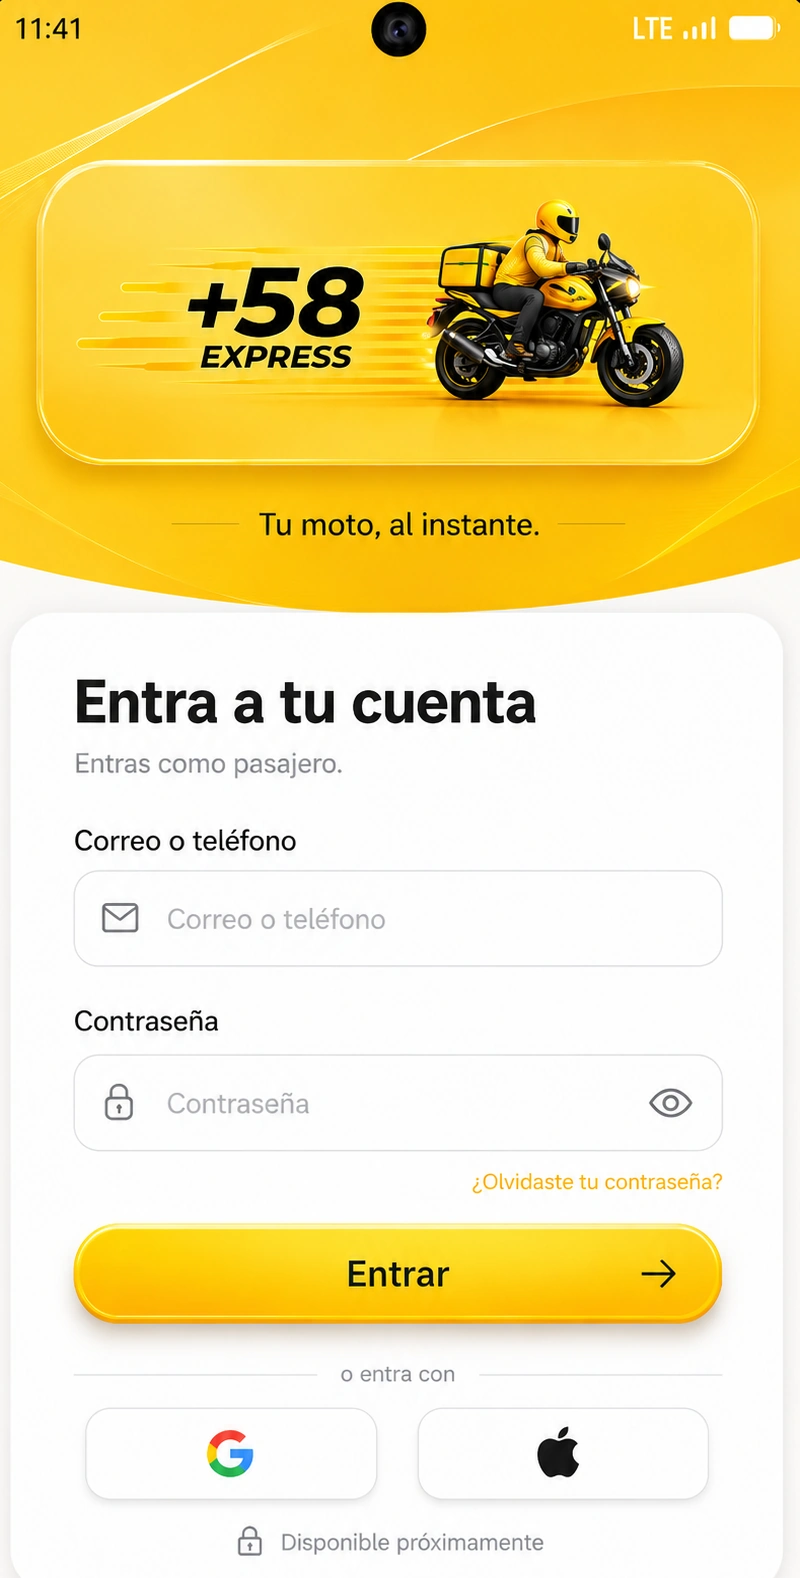
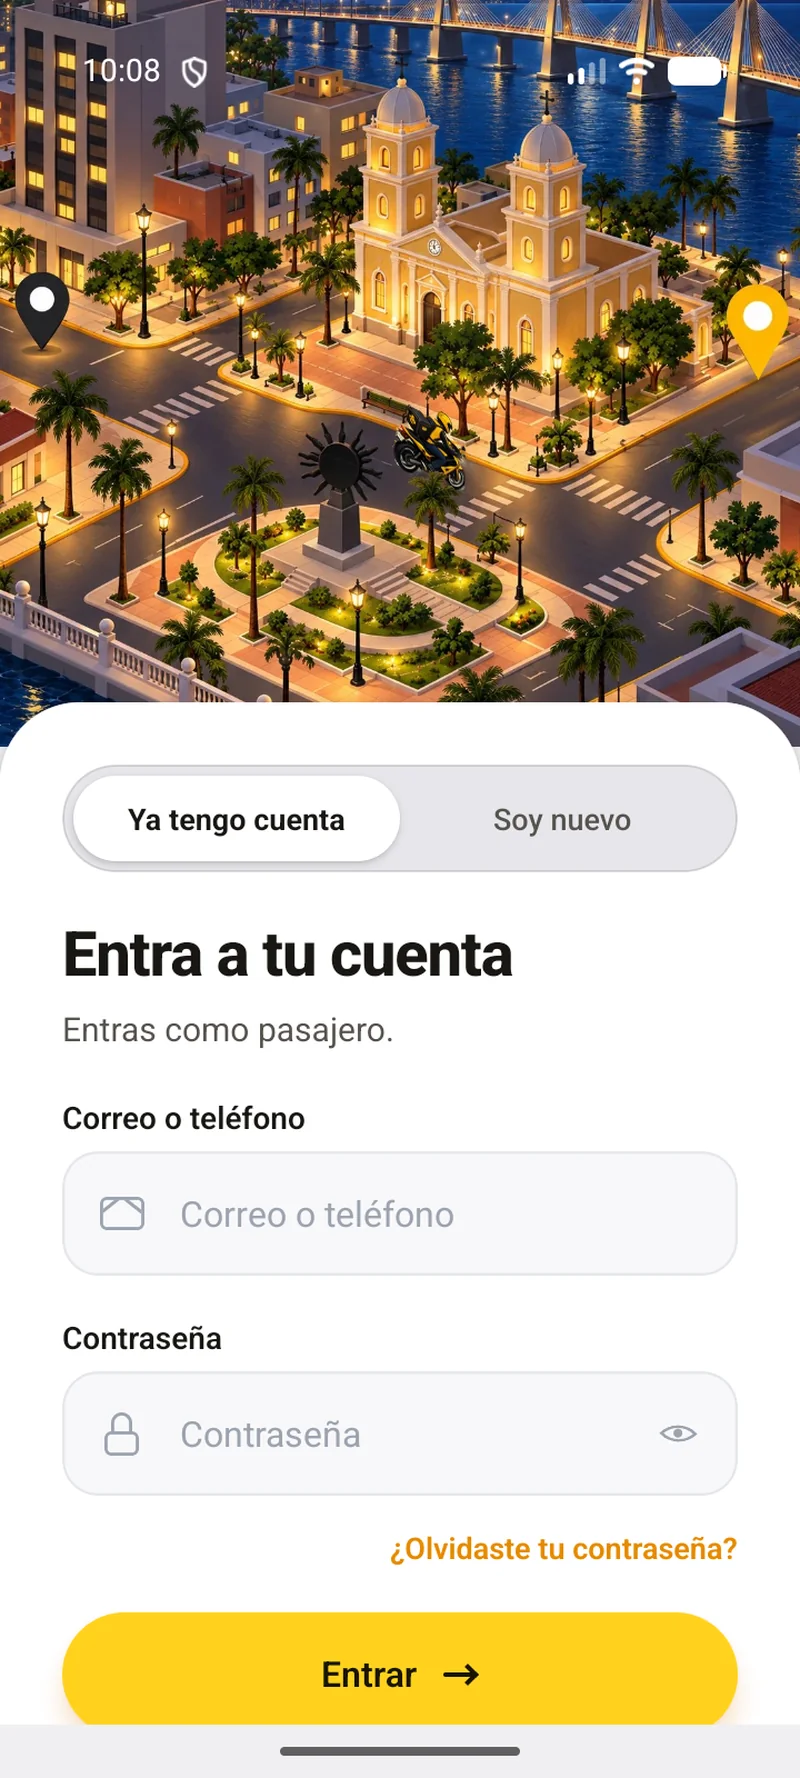
feat(web): pantallas reales de la app, primer viaje gratis y postulación
- Las pantallas del teléfono pasan a ser las de la app publicada: inicio
  (¿qué necesitas hoy?), la ruta con distancia y tiempo, y el acceso con
  el mapa de Maracaibo. Sin «demo», «LAB» ni nombres inventados.
- Imagen para compartir: el gráfico de Google Play (carro y moto).
- Promoción tras la portada: el primer viaje, totalmente gratis, solo para
  cuentas nuevas, con la condición escrita junto a la oferta.
- /conductores: la imagen de la postulación (en revisión y aprobada) y la
  postulación se hace desde la app, ya publicada.

diff --git a/web/app/conductores/page.tsx b/web/app/conductores/page.tsx
@@ -2,16 +2,15 @@ import type { Metadata } from "next";
 import { metaPagina } from "@/lib/seo";
 import PageShell, { Bloque } from "@/components/site/PageShell";
 import PuertaCTA from "@/components/site/PuertaCTA";
+import Image from "next/image";
 import Reveal from "@/components/motion/Reveal";
 
 export const metadata: Metadata = metaPagina({
   titulo: "Conduce con +58Express en Maracaibo y Mara",
-  /* NO decir «inscripciones abiertas»: no las hay. Esta frase es lo que se lee
-     en el resultado de Google y en la vista previa de WhatsApp, y la propia
-     página dice justo debajo que todavía no existe formulario de postulación.
-     Era la única promesa del sitio que su propia página desmentía. */
+  /* La postulación se hace en la aplicación, ya publicada en Google Play: un
+     administrador revisa los documentos antes de aprobar. */
   descripcion:
-    "Conduce en moto por Maracaibo y el Municipio Mara: eliges tus horas, decides qué viajes aceptas y cobras por la plataforma. Próximamente — conoce cómo va a funcionar.",
+    "Conduce en moto por Maracaibo y el Municipio Mara: eliges tus horas, decides qué viajes aceptas y cobras por la plataforma. Postúlate desde la app.",
   ruta: "/conductores",
 });
 
@@ -48,10 +47,12 @@ export default function Page() {
       </Bloque>
 
       <Bloque className="bg-ink-950">
+        <div className="grid items-center gap-12 lg:grid-cols-[minmax(0,1fr)_400px]">
+        <div>
         <Reveal>
           <h2 className="display text-[clamp(2rem,5vw,3.2rem)] text-paper">Cómo se entra</h2>
         </Reveal>
-        <ol className="mt-8 grid gap-8 sm:grid-cols-3">
+        <ol className="mt-8 grid gap-8">
           {PASOS.map(([t, d], i) => (
             <Reveal key={t} delay={i * 0.06} as="li">
               <span className="tabular text-[13px] font-bold tracking-[0.22em] text-signal">
@@ -62,10 +63,22 @@ export default function Page() {
             </Reveal>
           ))}
         </ol>
+        </div>
+        <Reveal delay={0.1} className="mx-auto w-full max-w-[400px]">
+          <Image
+            src="/photo/postulacion.webp"
+            alt="La postulación en la app de +58Express: en revisión y aprobada"
+            width={900}
+            height={1423}
+            sizes="(min-width: 1024px) 400px, 90vw"
+            className="h-auto w-full rounded-[var(--radius-card)]"
+          />
+        </Reveal>
+        </div>
         <div className="mt-14">
           <PuertaCTA
             titulo={<>Empieza por <span className="text-signal">una conversación</span></>}
-            cuerpo="Todavía no hay formulario de postulación en la web. Mientras llega, escríbenos y el equipo te dice qué documentación necesitas y cómo sigue el proceso — sin esperar a que la aplicación se publique."
+            cuerpo="La postulación se hace desde la aplicación: descárgala en Google Play, crea tu cuenta de conductor y sube tus documentos. Si tienes dudas sobre qué necesitas, escríbenos."
             intencion="conductor"
             rotulo="Hablar con el equipo"
             nota="Te responde una persona, no un robot."

diff --git a/web/components/home/PromoPrimerViaje.tsx b/web/components/home/PromoPrimerViaje.tsx
@@ -1,0 +1,59 @@
+import Image from "next/image";
+import Reveal from "@/components/motion/Reveal";
+import { ButtonLink } from "@/components/ui/Button";
+import { STORES } from "@/lib/content";
+
+/**
+ * Promoción de lanzamiento: el primer viaje, gratis, solo para cuentas nuevas
+ * (decisión del dueño, noviembre de 2026). La condición va escrita junto a la
+ * oferta, no escondida: «gratis» sin decir para quién sería una promesa que
+ * la app no cumple a quien ya tiene cuenta.
+ *
+ * La foto es la mitad sin texto de la pieza de campaña del carro y la moto; el
+ * titular va en HTML para que se lea en cualquier pantalla y se pueda cambiar.
+ */
+export default function PromoPrimerViaje() {
+  return (
+    <section aria-labelledby="promo-titulo" className="relative isolate border-t border-white/8 bg-ink-950 py-20 sm:py-24">
+      <div className="mx-auto max-w-[1440px] px-[var(--shell-x)]">
+        <div className="grid items-center overflow-hidden rounded-[var(--radius-card)] border border-white/10 bg-white/[0.03] lg:grid-cols-[minmax(0,1fr)_minmax(0,1.1fr)]">
+          <Reveal className="p-8 sm:p-12">
+            <p className="text-[13px] font-bold uppercase tracking-[0.22em] text-signal">
+              Solo para usuarios nuevos
+            </p>
+            <h2 id="promo-titulo" className="display mt-4 text-[clamp(2.4rem,6vw,4.2rem)] text-paper">
+              Tu primer viaje,
+              <br />
+              <span className="text-signal">totalmente gratis</span>
+            </h2>
+            <p className="prose-measure mt-5 text-[17px] leading-relaxed text-paper-dim">
+              Descarga +58Express, crea tu cuenta y tu primera carrera no te cuesta nada.
+            </p>
+            <div className="mt-8 flex flex-col gap-3 sm:flex-row sm:items-center">
+              {STORES.google ? (
+                <ButtonLink href={STORES.google} size="lg" target="_blank" rel="noopener noreferrer">
+                  Descargar en Google Play
+                </ButtonLink>
+              ) : null}
+              <ButtonLink href="/#descargar" size="lg" variant="outline">
+                Ver cómo descargar
+              </ButtonLink>
+            </div>
+            <p className="mt-6 text-[13px] leading-relaxed text-paper-mute">
+              Válido solo para la primera carrera de cuentas nuevas en +58Express.
+            </p>
+          </Reveal>
+          <div className="relative aspect-[1054/887] w-full lg:h-full lg:aspect-auto lg:min-h-[440px]">
+            <Image
+              src="/photo/promo-primer-viaje.webp"
+              alt="Un carro y una moto de +58Express de noche en la ciudad"
+              fill
+              sizes="(min-width: 1024px) 55vw, 100vw"
+              className="object-cover object-center"
+            />
+          </div>
+        </div>
+      </div>
+    </section>
+  );
+}

diff --git a/web/app/page.tsx b/web/app/page.tsx
@@ -8,6 +8,7 @@ import DosLados from "@/components/home/DosLados";
 import Cobertura from "@/components/home/Cobertura";
 import Seguridad from "@/components/home/Seguridad";
 import Descarga from "@/components/home/Descarga";
+import PromoPrimerViaje from "@/components/home/PromoPrimerViaje";
 
 export default function Home() {
   return (
@@ -16,6 +17,7 @@ export default function Home() {
       <Navbar />
       <main id="contenido" tabIndex={-1}>
         <Hero />
+        <PromoPrimerViaje />
         <RideScene />
         <Servicios />
         <DosLados />

diff --git a/web/lib/content.ts b/web/lib/content.ts
@@ -165,12 +165,12 @@ export const PHONE_SCREENS = [
   {
     id: "home",
     src: "/app/home.webp",
-    alt: "Inicio de +58Express con los servicios disponibles",
+    alt: "Inicio de +58Express: ¿qué necesitas hoy?, con viajes y los demás servicios",
   },
   {
     id: "map",
     src: "/app/map-select.webp",
-    alt: "Mapa con la ruta trazada y la distancia del viaje antes de confirmar",
+    alt: "Ruta trazada con la distancia y el tiempo estimado antes de pagar",
   },
   {
     id: "login",

diff --git a/web/app/layout.tsx b/web/app/layout.tsx
@@ -76,7 +76,7 @@ export const metadata: Metadata = {
         url: "/brand/og.jpg",
         width: 1200,
         height: 630,
-        alt: "+58Express — Muévete. Pide. Recibe.",
+        alt: "+58Express — Movilidad y delivery en un solo lugar",
       },
     ],
   },
